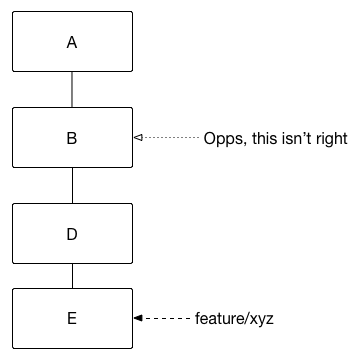
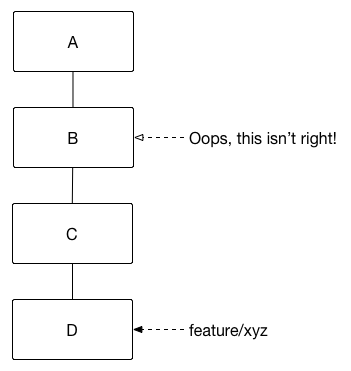
fix rebasing example images

diff --git a/git_internals/git_internals.html b/git_internals/git_internals.html
@@ -469,7 +469,7 @@ b2849d3 initial commit
 <section id="slide-sec-14-2">
 <h3 id="sec-14-2">Rebasing</h3>
 <ul>
-<li>Go back in time and make the commit you wish you had instead of commit B &#x2013; commit F</li>
+<li>Go back in time and make the commit you wish you had instead of commit B &#x2013; commit E</li>
 
 </ul>
 
@@ -478,13 +478,14 @@ b2849d3 initial commit
 </p>
 </div>
 
+
 </section>
 <section id="slide-sec-14-3">
 <h3 id="sec-14-3">Rebasing</h3>
 <ul>
 <li>OK, now what?</li>
 <li>Can't just move the feature/xyz HEAD</li>
-<li>We'd lose commits D and E</li>
+<li>We'd lose commits C and D</li>
 
 </ul>
 
@@ -493,13 +494,14 @@ b2849d3 initial commit
 </p>
 </div>
 
+
 </section>
 <section id="slide-sec-14-4">
 <h3 id="sec-14-4">Rebasing</h3>
 <ul>
 <li>Git can calculate diffs between parent and child commits</li>
 <li>Rebasing does this for all commits after B</li>
-<li>Then applies the diffs as new commits on top of F</li>
+<li>Then applies the diffs as new commits on top of E</li>
 
 </ul>
 
@@ -513,51 +515,7 @@ b2849d3 initial commit
 </section>
 <section>
 <section id="slide-sec-15">
-<h2 id="sec-15">Practical Rebasing</h2>
-<ul>
-<li>feature/xyz is based off of master at commit A</li>
-
-</ul>
-
-<div class="figure">
-<p><img src="./images/practical_rebasing1.png" alt="practical_rebasing1.png" />
-</p>
-</div>
-
-
-</section>
-<section id="slide-sec-15-1">
-<h3 id="sec-15-1">Practical Rebasing</h3>
-<ul>
-<li>Change happens on master</li>
-
-</ul>
-
-<div class="figure">
-<p><img src="./images/practical_rebasing2.png" alt="practical_rebasing2.png" />
-</p>
-</div>
-
-
-</section>
-<section id="slide-sec-15-2">
-<h3 id="sec-15-2">Practical Rebasing</h3>
-<ul>
-<li>Change feature/xyz history to make it look like we started off of commit D</li>
-
-</ul>
-
-<div class="figure">
-<p><img src="./images/practical_rebasing3.png" alt="practical_rebasing3.png" />
-</p>
-</div>
-
-
-</section>
-</section>
-<section>
-<section id="slide-sec-16">
-<h2 id="sec-16">With great power&#x2026;</h2>
+<h2 id="sec-15">With great power&#x2026;</h2>
 <ul>
 <li>Changing shared history can be bad</li>
 <li>Leaves fellow time travelers stuck in unreferenced, parallel dimensions</li>
@@ -570,8 +528,8 @@ b2849d3 initial commit
 </section>
 </section>
 <section>
-<section id="slide-sec-17">
-<h2 id="sec-17">Resources</h2>
+<section id="slide-sec-16">
+<h2 id="sec-16">Resources</h2>
 <ul>
 <li>Slides (<a href="http://bit.ly/talks_git_internals">http://bit.ly/talks_git_internals</a>)</li>
 <li>Pro Git (<a href="http://git-scm.com/book/en/v2">http://git-scm.com/book/en/v2</a>)</li>
